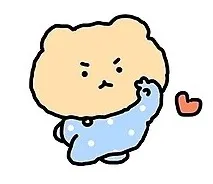
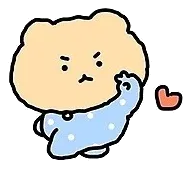
Expand mascot to 200 procedural poses with transparent pet assets.
Remove white backgrounds from character sprites, add hairstyle variants, and drive stage animations through generated transform frames.

diff --git a/panda-sprites.js b/panda-sprites.js
@@ -1,27 +1,117 @@
-/** 사용자가 그린 캐릭터 PNG — 성장 단계별 포즈 + 프레임 애니메이션 */
+/** 사용자 손그림 PNG — 200+ 프로시저럴 몸동작 포즈 */
 
-const PET = {
+const POSES = {
   front: "assets/pet/char-front.png",
   heart: "assets/pet/char-heart.png",
   wave: "assets/pet/char-wave.png",
 };
 
-const STAGE_CONFIG = {
-  1: { src: "front", egg: true },
-  2: { src: "front" },
-  3: { src: "front" },
-  4: { src: "heart" },
-  5: { src: "wave" },
-  6: { src: "wave" },
+const HAIR = [
+  "assets/pet/hair-01.png",
+  "assets/pet/hair-02.png",
+  "assets/pet/hair-03.png",
+  "assets/pet/hair-04.png",
+  "assets/pet/hair-05.png",
+  "assets/pet/hair-06.png",
+  "assets/pet/hair-07.png",
+  "assets/pet/hair-08.png",
+  "assets/pet/hair-09.png",
+];
+
+const POSE_COUNT = 200;
+
+/** 20가지 기본 동작 × 10 variation = 200포즈 */
+const BASE_MOTIONS = [
+  { tag: "서있기", ty: 0, tx: 0, rot: 0, sx: 1, sy: 1 },
+  { tag: "살짝왼쪽", ty: -1, tx: -2, rot: -3, sx: 1, sy: 1 },
+  { tag: "살짝오른쪽", ty: -1, tx: 2, rot: 3, sx: 1, sy: 1 },
+  { tag: "통통1", ty: -4, tx: 0, rot: -1, sx: 1.02, sy: 1.03 },
+  { tag: "통통2", ty: -8, tx: 0, rot: 0, sx: 1.03, sy: 1.04 },
+  { tag: "높이뛰기", ty: -13, tx: 0, rot: 1, sx: 1.06, sy: 1.06 },
+  { tag: "착지눌림", ty: 2, tx: 0, rot: 0, sx: 1.07, sy: 0.88 },
+  { tag: "흔들왼", ty: -3, tx: -4, rot: -8, sx: 1.01, sy: 1 },
+  { tag: "흔들오른", ty: -3, tx: 4, rot: 8, sx: 1.01, sy: 1 },
+  { tag: "앞으로숙임", ty: -2, tx: -3, rot: -6, sx: 1.02, sy: 0.96 },
+  { tag: "뒤로쪼그림", ty: 1, tx: 0, rot: 2, sx: 0.96, sy: 0.94 },
+  { tag: "손흔들기", ty: -6, tx: 2, rot: 5, sx: 1.03, sy: 1.02 },
+  { tag: "하트던지기", ty: -5, tx: -2, rot: -5, sx: 1.02, sy: 1.02 },
+  { tag: "깡총깡총", ty: -10, tx: 1, rot: -4, sx: 1.04, sy: 1.05 },
+  { tag: "수줍", ty: 0, tx: 0, rot: 0, sx: 0.94, sy: 0.96 },
+  { tag: "뿌듯", ty: -4, tx: 0, rot: 0, sx: 1.05, sy: 1.05 },
+  { tag: "알에서고개", ty: -5, tx: 0, rot: 2, sx: 0.95, sy: 0.97 },
+  { tag: "알에서삐짐", ty: -3, tx: -3, rot: -6, sx: 0.93, sy: 0.95 },
+  { tag: "빙글", ty: -4, tx: 0, rot: -11, sx: 1.02, sy: 1.01 },
+  { tag: "콩닥콩닥", ty: -6, tx: -2, rot: 6, sx: 1.03, sy: 0.98 },
+];
+
+const STAGE_SRC_POOL = {
+  1: () => [POSES.front],
+  2: () => [HAIR[0], HAIR[1], POSES.front, POSES.front],
+  3: () => [HAIR[2], HAIR[3], POSES.front, POSES.wave, POSES.front],
+  4: () => [POSES.front, POSES.heart, POSES.heart, POSES.front, HAIR[4]],
+  5: () => [POSES.wave, POSES.front, POSES.heart, POSES.wave, HAIR[7], POSES.front],
+  6: () => [POSES.wave, POSES.heart, POSES.wave, POSES.front, HAIR[8], POSES.heart],
 };
 
-const FRAME_CLASSES = [
-  "fm-frame-0",
-  "fm-frame-1",
-  "fm-frame-2",
-  "fm-frame-3",
-  "fm-frame-4",
-];
+function isHairSrc(src) {
+  return src.includes("hair-");
+}
+
+function isBodySrc(src, key) {
+  return src === POSES[key];
+}
+
+function mulberry32(seed) {
+  return () => {
+    seed |= 0;
+    seed = (seed + 0x6d2b79f5) | 0;
+    let t = Math.imul(seed ^ (seed >>> 15), 1 | seed);
+    t = (t + Math.imul(t ^ (t >>> 7), 61 | t)) ^ t;
+    return ((t ^ (t >>> 14)) >>> 0) / 4294967296;
+  };
+}
+
+function round1(n) {
+  return Math.round(n * 10) / 10;
+}
+
+function generatePoseLibrary(stageId) {
+  const pool = STAGE_SRC_POOL[stageId]?.() || STAGE_SRC_POOL[1]();
+  const rand = mulberry32(stageId * 9973 + 42);
+  const poses = [];
+
+  for (let i = 0; i < POSE_COUNT; i++) {
+    const base = BASE_MOTIONS[i % BASE_MOTIONS.length];
+    const varIdx = Math.floor(i / BASE_MOTIONS.length);
+    const jitter = rand() * 2 - 1;
+    const src = pool[i % pool.length];
+    const egg = stageId === 1 && (base.tag.startsWith("알") || i % 4 === 0);
+    const bust = isHairSrc(src);
+    const flip =
+      (isBodySrc(src, "wave") && i % 3 === 0) ||
+      (isBodySrc(src, "heart") && i % 5 === 1) ||
+      (bust && i % 6 === 2);
+
+    poses.push({
+      src,
+      egg,
+      bust,
+      flip,
+      ty: round1(base.ty + varIdx * -0.35 + jitter * 0.8),
+      tx: round1(base.tx + (varIdx % 3 - 1) * 1.2 + jitter * 1.5),
+      rot: round1(base.rot + (varIdx % 5 - 2) * 1.8 + jitter * 2),
+      sx: round1(Math.max(0.9, Math.min(1.1, base.sx + varIdx * 0.004 + jitter * 0.01))),
+      sy: round1(Math.max(0.86, Math.min(1.08, base.sy + varIdx * 0.003 + jitter * 0.01))),
+      ms: 260 + (i % 9) * 35 + Math.floor(rand() * 40),
+    });
+  }
+
+  return poses;
+}
+
+const STAGE_POSES = Object.fromEntries(
+  [1, 2, 3, 4, 5, 6].map((id) => [id, generatePoseLibrary(id)])
+);
 
 function eggShell() {
   return `<svg xmlns="http://www.w3.org/2000/svg" viewBox="0 0 120 120" width="120" height="120" aria-hidden="true" class="fm-egg-shell">
@@ -30,24 +120,33 @@ function eggShell() {
   </svg>`;
 }
 
-function buildSprite(stageId) {
-  const cfg = STAGE_CONFIG[stageId] || STAGE_CONFIG[1];
-  const src = PET[cfg.src];
+function buildFrame(frame) {
+  const bust = frame.bust ? " fm-panda-bust" : "";
+  const flip = frame.flip ? " fm-panda-flip" : "";
+  const img = `<img src="${frame.src}" alt="" class="fm-panda-art${bust}${flip}" draggable="false" decoding="async">`;
 
-  if (cfg.egg) {
+  if (frame.egg) {
     return `<div class="fm-panda-egg">
-      <img src="${src}" alt="" class="fm-panda-art fm-panda-peek" draggable="false" decoding="async">
+      <div class="fm-panda-peek-wrap">${img}</div>
       ${eggShell()}
     </div>`;
   }
 
-  return `<img src="${src}" alt="" class="fm-panda-art" draggable="false" decoding="async">`;
+  return img;
 }
 
-export const PANDA_FRAME_COUNT = FRAME_CLASSES.length;
+function applyPoseTransform(el, frame) {
+  el.style.setProperty("--fm-tx", `${frame.tx}px`);
+  el.style.setProperty("--fm-ty", `${frame.ty}px`);
+  el.style.setProperty("--fm-rot", `${frame.rot}deg`);
+  el.style.setProperty("--fm-sx", String(frame.sx));
+  el.style.setProperty("--fm-sy", String(frame.sy));
+}
 
-export function getPandaSpriteHtml(stageId) {
-  return buildSprite(stageId);
+export const PANDA_FRAME_COUNT = POSE_COUNT;
+
+export function getPoseFrames(stageId) {
+  return STAGE_POSES[stageId] || STAGE_POSES[1];
 }
 
 let _animTimer = null;
@@ -57,21 +156,25 @@ export function startPandaAnimation(stageId) {
   const el = document.querySelector(".fm-panda-sprite");
   if (!el) return;
 
-  el.innerHTML = buildSprite(stageId);
-  el.classList.remove(...FRAME_CLASSES);
-  el.classList.add("fm-frame-0");
-
+  const frames = getPoseFrames(stageId);
   let i = 0;
-  _animTimer = setInterval(() => {
-    el.classList.remove(...FRAME_CLASSES);
-    i = (i + 1) % FRAME_CLASSES.length;
-    el.classList.add(FRAME_CLASSES[i]);
-  }, 420);
+
+  const tick = () => {
+    const frame = frames[i];
+    el.innerHTML = buildFrame(frame);
+    el.className = "fm-panda-sprite";
+    applyPoseTransform(el, frame);
+    const ms = frame.ms || 340;
+    i = (i + 1) % frames.length;
+    _animTimer = setTimeout(tick, ms);
+  };
+
+  tick();
 }
 
 export function stopPandaAnimation() {
   if (_animTimer) {
-    clearInterval(_animTimer);
+    clearTimeout(_animTimer);
     _animTimer = null;
   }
 }

diff --git a/theme.css b/theme.css
@@ -779,12 +779,12 @@
       display: flex;
       align-items: flex-end;
       justify-content: center;
-      width: 120px;
-      height: 120px;
+      width: 132px;
+      height: 132px;
       margin-bottom: 0;
       pointer-events: none;
       animation: fm-float-bob 2.8s ease-in-out infinite;
-      filter: drop-shadow(0 6px 0 rgba(26, 26, 26, 0.06));
+      filter: drop-shadow(0 4px 0 rgba(26, 26, 26, 0.08));
     }
     @keyframes fm-float-bob {
       0%, 100% { transform: translateY(0); }
@@ -794,9 +794,17 @@
       position: relative;
       width: 100%;
       height: 100%;
-      transform: scale(var(--fm-scale, 1)) translateY(0) rotate(0deg);
+      --fm-tx: 0px;
+      --fm-ty: 0px;
+      --fm-rot: 0deg;
+      --fm-sx: 1;
+      --fm-sy: 1;
+      transform: scale(var(--fm-scale, 1))
+        translate(var(--fm-tx), var(--fm-ty))
+        rotate(var(--fm-rot))
+        scale(var(--fm-sx), var(--fm-sy));
       transform-origin: center bottom;
-      transition: transform 0.85s cubic-bezier(0.34, 1.25, 0.64, 1);
+      transition: transform 0.2s cubic-bezier(0.34, 1.25, 0.64, 1);
     }
     .fm-panda-art {
       display: block;
@@ -806,20 +814,38 @@
       object-position: center bottom;
       user-select: none;
       -webkit-user-drag: none;
+      filter: drop-shadow(0 2px 0 rgba(26, 26, 26, 0.12));
+    }
+    .fm-panda-bust {
+      width: 88%;
+      height: 88%;
+      margin: 0 auto;
+      object-position: center center;
+    }
+    .fm-panda-flip {
+      transform: scaleX(-1);
     }
     .fm-panda-egg {
       position: relative;
       width: 100%;
       height: 100%;
     }
-    .fm-panda-peek {
+    .fm-panda-peek-wrap {
       position: absolute;
       left: 50%;
-      bottom: 38%;
-      width: 62%;
-      height: 62%;
+      bottom: 36%;
+      width: 58%;
+      height: 58%;
       transform: translateX(-50%);
       z-index: 1;
+      display: flex;
+      align-items: flex-end;
+      justify-content: center;
+    }
+    .fm-panda-peek-wrap .fm-panda-art {
+      width: 100%;
+      height: 100%;
+      object-position: center bottom;
     }
     .fm-egg-shell {
       position: absolute;
@@ -827,17 +853,12 @@
       z-index: 2;
       pointer-events: none;
     }
-    .fm-panda-sprite.fm-frame-0 { transform: scale(var(--fm-scale, 1)) translateY(0) rotate(0deg); }
-    .fm-panda-sprite.fm-frame-1 { transform: scale(var(--fm-scale, 1)) translateY(-3px) rotate(-2deg); }
-    .fm-panda-sprite.fm-frame-2 { transform: scale(var(--fm-scale, 1)) translateY(-7px) rotate(0deg); }
-    .fm-panda-sprite.fm-frame-3 { transform: scale(var(--fm-scale, 1)) translateY(-2px) rotate(2deg); }
-    .fm-panda-sprite.fm-frame-4 { transform: scale(var(--fm-scale, 1)) translateY(-5px) rotate(-1deg); }
     .fm-panda-box.fm-grow .fm-panda-sprite {
       animation: fm-panda-pop 0.7s cubic-bezier(0.34, 1.45, 0.64, 1);
     }
     @keyframes fm-panda-pop {
       0% { transform: scale(calc(var(--fm-scale, 1) * 0.72)) translateY(0); }
-      55% { transform: scale(calc(var(--fm-scale, 1) * 1.14)) translateY(-6px); }
+      55% { transform: scale(calc(var(--fm-scale, 1) * 1.14)) translateY(-8px); }
       100% { transform: scale(var(--fm-scale, 1)) translateY(0); }
     }
     .fc-compare-section { margin-bottom: 28px; }